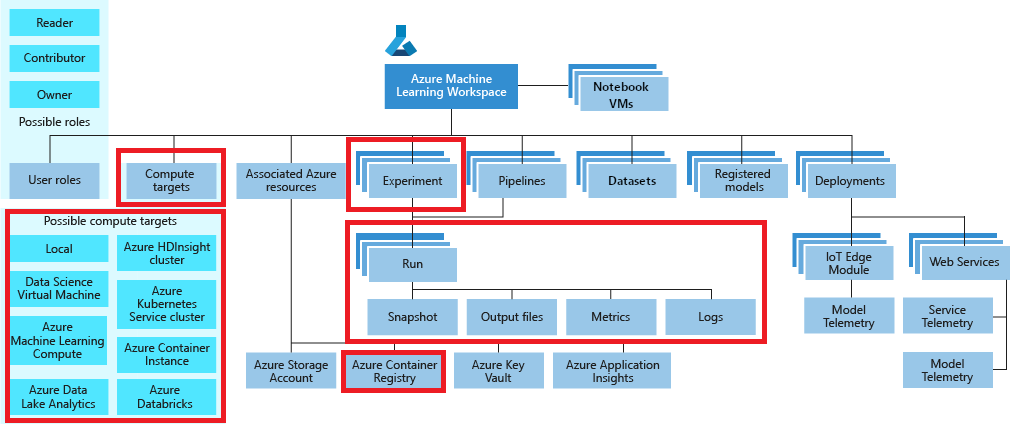
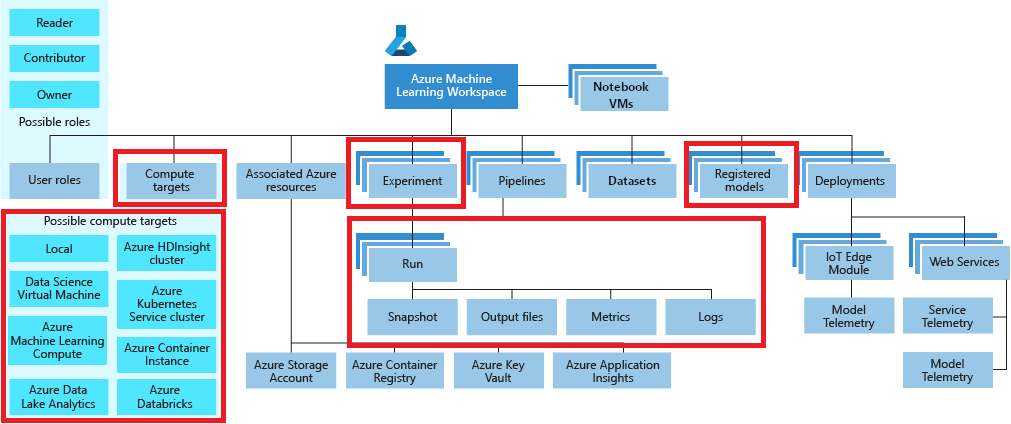
Intro for model registry final version

diff --git a/modeling/feature-engineering-training-evaluation-selection/model-training/aml-model-registry.md b/modeling/feature-engineering-training-evaluation-selection/model-training/aml-model-registry.md
@@ -1,5 +1,43 @@
 # Introducing the AML Model Registry
 
-...content in development...
+The most important result produced by a Run in the context of an Experiment is a Model. Basically, a trained Model is a piece of code that takes some inputs and produces some outputs and is registered with the Azure Machine Learning service. In additon to models trained by Runs, you can also register models that were trained elswhere than on a compute target provided by Azure Machine Learning. In fact, Azure Machine Learning supports any trained model that can be loaded through Python 3, regardless of where it was trained.
+
+You can use the SDK to register a model programatically.
+
+```python
+model_description = 'Some model description.'
+model = Model.register(
+    model_path='model.h5',  # this points to a local file
+    model_name=<model_name>,  # this is the name the model is registered as
+    tags={"type": "classification", "run_id": run.id}, # tags associated to the model
+    description=model_description,
+    workspace=run.experiment.workspace
+)
+```
+
+All registered models are available through the Azure Portal.
+
+![Azure Machine Learning Modes in Azure Portal](./media/model-in-portal.png)
+
+Every registered model has a set of properties managed by the Azure Machine Learning service.
+
+![Azure Machine Learning Model details in Azure Portal](./media/model-properties-in-portal.png)
+
+Each model (and its associated properties) can also be retrieved programatically using the SDK.
+
+![Azure Machine Learning Model details using the Python SDK](./media/model-in-sdk.png)
+
+## Model files and versions
+
+A registered model corresponds to one or more files that make up the model. When the result of a model training contains multiple files, you can register the set of file as a single model in the Azure Machine Learning workspace. Once a model is registered, you can download any of the files that were specified during registration.
+
+Within the context provided by the same model name, multiple versions cand be managed. Each new model registration referring to the same name results in a new version being created (using increments of 1). It is also recommended to use the tags mechanism provided by the Model Registry to tag each registered model version. This will help a lot later in searching for a specific model or a specific model version.
+
+## Next steps
+
+You can learn more about the Model Registry by reviewing these links to additional resources:
+
+- [How Azure Machine Learning service works: Architecture and concepts - Models](https://docs.microsoft.com/en-us/azure/machine-learning/service/concept-azure-machine-learning-architecture#models)
+
 
 [Model Evaluation introduced](../model-evaluation/README.md)

diff --git a/modeling/feature-engineering-training-evaluation-selection/model-training/aml-experiment-runs.md b/modeling/feature-engineering-training-evaluation-selection/model-training/aml-experiment-runs.md
@@ -176,31 +176,6 @@ pipeline_run.wait_for_completion(show_output=True)
 ```
 For a more detailed discussion about pipelines see the [Overview of machine learning pipelines using the Azure Machine Learning SDK](../../../creating-machine-learning-pipelines/machine-learning-pipelines.md) section of this guide.
 
-## Models
-
-The most important result produced by a Run in the context of an Experiment is a Model. Basically, a trained Model is a piece of code that takes some inputs and produces some outputs and is registered with the Azure Machine Learning service. In additon to models trained by Runs, you can also register models that were trained elswhere than on a compute target provided by Azure Machine Learning. In fact, Azure Machine Learning supports any trained model that can be loaded through Python 3, regardless of where it was trained.
-
-You can use the SDK to register a model programatically.
-
-```python
-model_description = 'Some model description.'
-model = Model.register(
-    model_path='model.h5',  # this points to a local file
-    model_name=<model_name>,  # this is the name the model is registered as
-    tags={"type": "classification", "run_id": run.id}, # tags associated to the model
-    description=model_description,
-    workspace=run.experiment.workspace
-)
-```
-
-All registered models are available throughthe Azure Portal.
-
-![Azure Machine Learning Model details in Azure Portal](./media/model-in-portal.png)
-
-Each model can also be retrieved programatically using the SDK.
-
-![Azure Machine Learning Model details using the Python SDK](./media/model-in-sdk.png)
-
 ## Next steps
 
 You can learn more about Experiments and Runs by reviewing these links to additional resources:
